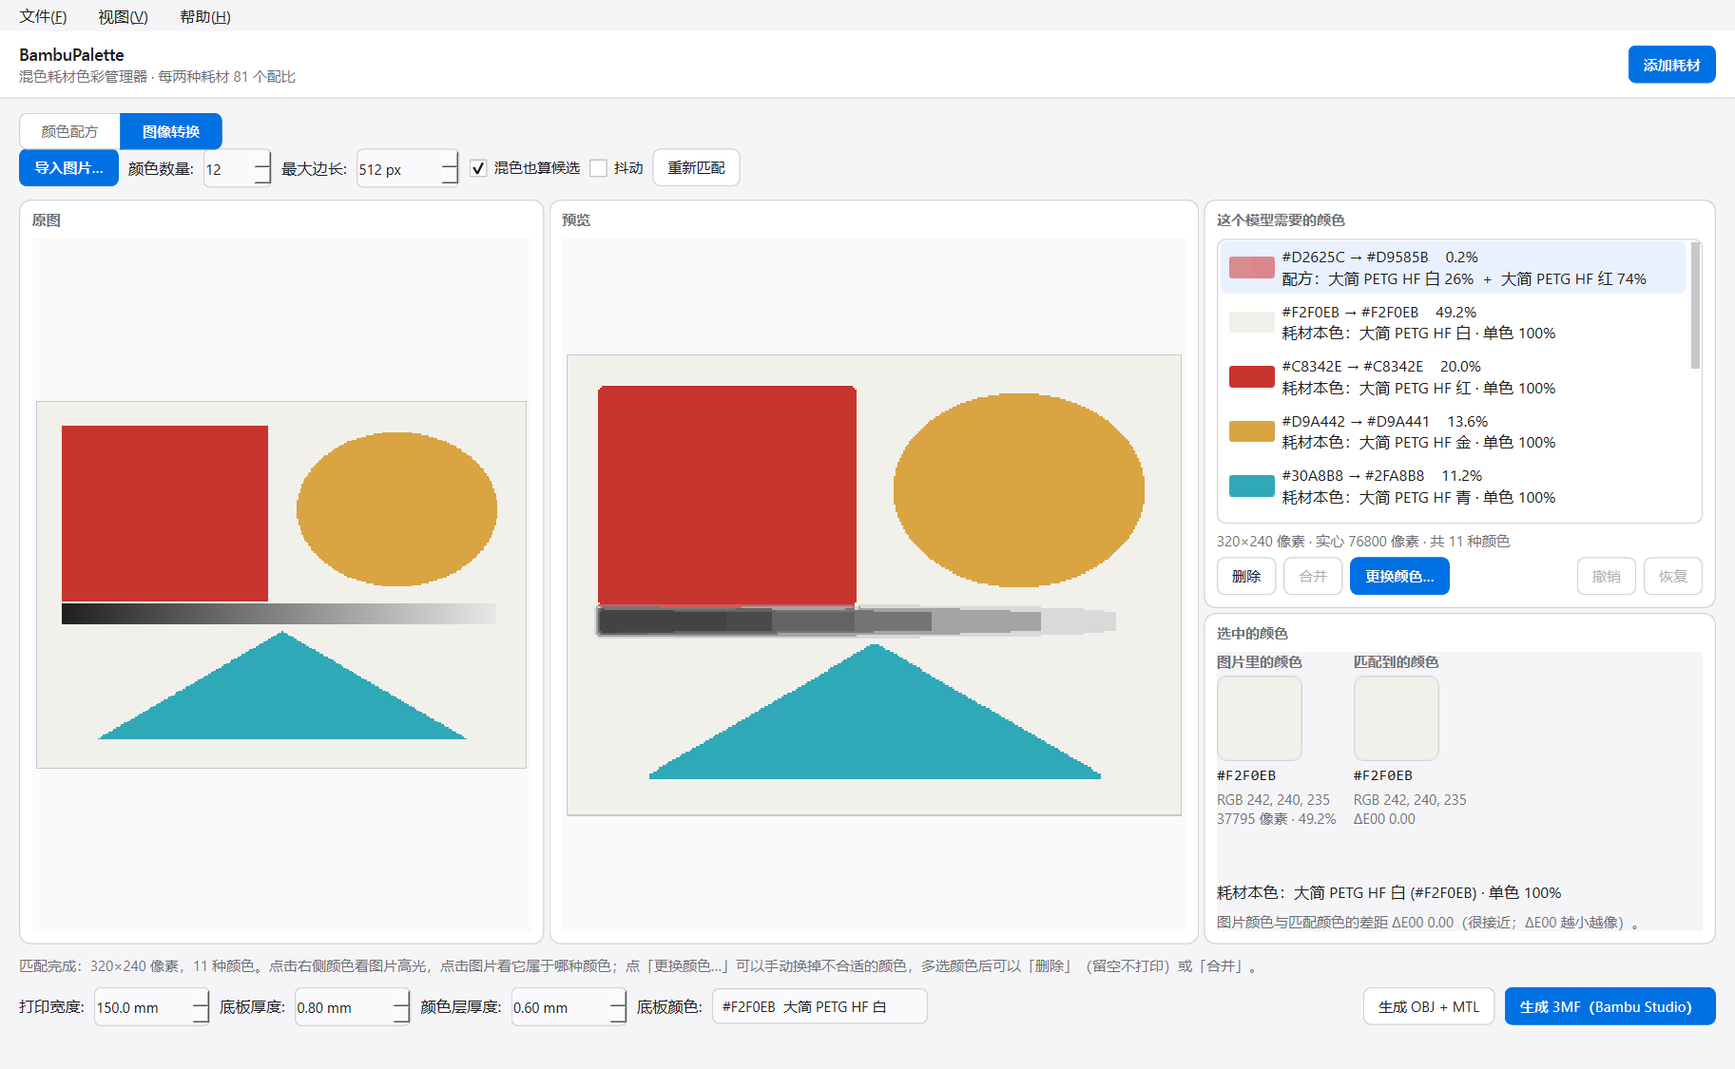
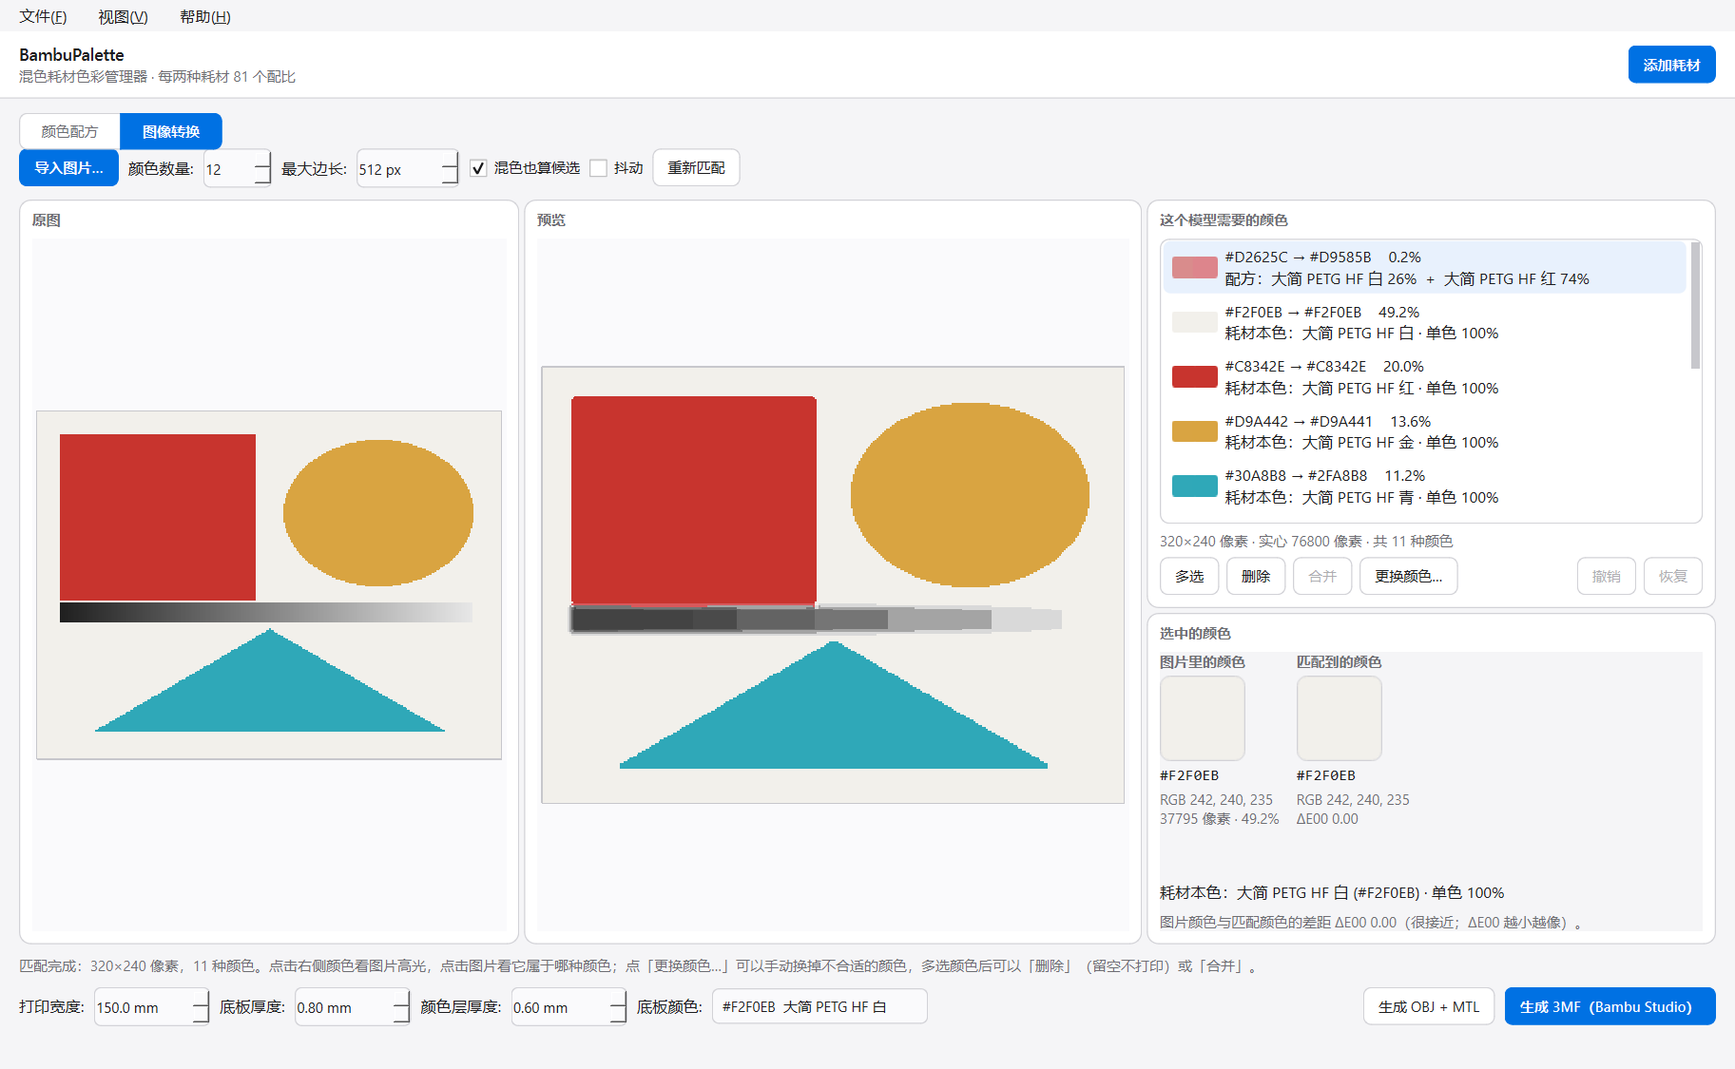
v1.6.3：exe 带上版本号、更换颜色不再是蓝底、删除前面加「多选」开关

diff --git a/tools/smoke_app.py b/tools/smoke_app.py
@@ -621,6 +621,24 @@ def main() -> int:
         "the target colour tooltip says 颜色配方 too",
     )
 
+    # The version has to be readable without opening 关于: it is the same string
+    # the exe's file properties carry (build/BambuPalette.spec parses app/__init__.py).
+    from app import __version__ as _version
+
+    about = triple_window._about_text()
+    check(
+        _version in about,
+        f"关于 names the running version {_version!r}",
+    )
+    check(
+        about.startswith("BambuPalette"),
+        "关于 still opens with the product name",
+    )
+    check(
+        "BambuPalette.exe 的文件属性里也写着同一个版本号。" in about,
+        "关于 points at the exe's file properties",
+    )
+
     # A spool's own colour must hide EVERY parent row, not just the second one:
     # row 3 kept the 「耗材丝3 … 12%」 text from the previous three-colour recipe,
     # so a raw spool looked like it was mixed from two unrelated spools.
@@ -1525,6 +1543,10 @@ def main() -> int:
             check(page._undo_button.isEnabled(), "a replacement can be undone with 撤销")
             check(page._replace_button.isEnabled(), "更换颜色 is live right next to 删除")
             check(
+                page._replace_button.property("accent") in (None, "false"),
+                "更换颜色 is a plain button like 删除 / 合并, not a blue one",
+            )
+            check(
                 "手动更换" in page._status.text(),
                 f"the status line reports the manual replacement: {page._status.text()}",
             )
@@ -1561,6 +1583,67 @@ def main() -> int:
             doomed_pixels = int(placed[doomed])
             page._list.select([doomed])
             check(page._delete_button.isEnabled(), "删除 lights up once a colour is picked")
+
+            # 「多选」: on, two plain clicks keep BOTH colours (the whole point is
+            # not having to know about Ctrl).  Off, one click replaces the other.
+            from PySide6.QtWidgets import QAbstractItemView as _QAbstractItemView
+
+            check(page._multi_button.isCheckable(), "多选 is a toggle")
+            check(not page._multi_button.isChecked(), "多选 starts off")
+            check(
+                page._list._list.selectionMode()
+                == _QAbstractItemView.SelectionMode.ExtendedSelection,
+                "off means the familiar Ctrl+click list",
+            )
+            page._multi_button.setChecked(True)
+            app.processEvents()
+            check(
+                page._list._list.selectionMode()
+                == _QAbstractItemView.SelectionMode.MultiSelection,
+                "多选 switches the list to plain-click multi-selection",
+            )
+            rows = [page._list._list.item(i) for i in range(page._list._list.count())]
+            rows[0].setSelected(True)
+            rows[1].setSelected(True)
+            app.processEvents()
+            check(
+                len(page._list.selected_indices()) == 2,
+                f"two plain clicks select two colours: {page._list.selected_indices()}",
+            )
+            check(page._merge_button.isEnabled(), "合并 lights up from a plain multi-selection")
+            page._multi_button.setChecked(False)
+            app.processEvents()
+            check(
+                len(page._list.selected_indices()) == 2,
+                "the selection survives turning 多选 back off",
+            )
+            check(
+                page._list._list.selectionMode()
+                == _QAbstractItemView.SelectionMode.ExtendedSelection,
+                "turning 多选 off restores Ctrl+click behaviour",
+            )
+            page._list.select([doomed])
+
+            # The row reads in the order the work happens: how to change the
+            # selection, then what to do with it, then how to take it back.
+            from PySide6.QtWidgets import QHBoxLayout as _QHBoxLayout
+            from PySide6.QtWidgets import QPushButton as _QPushButton
+
+            edit_row = next(
+                layout
+                for layout in page.findChildren(_QHBoxLayout)
+                if layout.indexOf(page._multi_button) >= 0
+            )
+            labels = [
+                edit_row.itemAt(position).widget().text()
+                for position in range(edit_row.count())
+                if isinstance(edit_row.itemAt(position).widget(), _QPushButton)
+            ]
+            check(
+                labels == ["多选", "删除", "合并", "更换颜色…", "撤销", "恢复"],
+                f"the edit row reads 多选 删除 合并 更换颜色… 撤销 恢复, got {labels}",
+            )
+
             page._on_delete_colours()
             app.processEvents()
             check(

diff --git a/app/ui/picture_page.py b/app/ui/picture_page.py
@@ -366,6 +366,27 @@ class ColourList(QWidget):
             if item is not None:
                 item.setSelected(int(item.data(Qt.ItemDataRole.UserRole)) in wanted)
 
+    def setMultiSelect(self, on: bool) -> None:
+        """Make a plain click ADD to the selection instead of replacing it.
+
+        Ctrl+click did this already, but a modifier nobody was told about is not
+        a feature — the page puts a 「多选」 toggle in front of the buttons
+        instead.  The mode is changed on the widget (we never fake a selection),
+        so the same ``itemSelectionChanged`` path keeps 删除 / 合并 in sync.
+        """
+        mode = (
+            QAbstractItemView.SelectionMode.MultiSelection
+            if on
+            else QAbstractItemView.SelectionMode.ExtendedSelection
+        )
+        if self._list.selectionMode() == mode:
+            return
+        keep = self.selected_indices()
+        self._list.setSelectionMode(mode)
+        # Qt is free to drop the selection while the mode changes; put it back
+        # through the widget so the buttons still agree with what is highlighted.
+        self.select(keep)
+
     def _refresh(self) -> None:
         result = self._result
         # Everything that touches the view happens while suppressed: selecting
@@ -649,11 +670,22 @@ class PicturePage(QWidget):
         self._merge_button.clicked.connect(self._on_merge_colours)
 
         self._replace_button = QPushButton("更换颜色…")
-        self._replace_button.setProperty("accent", "true")
+        # Deliberately NOT accented, exactly like 删除 / 合并 / 撤销 / 恢复 next to
+        # it: these five are all plain actions on the selection, and the only
+        # blue button on this page is 生成 3MF, which is the one that finishes
+        # the job.  A blue 更换颜色 read as "this is the important one".
         self._replace_button.setToolTip(
             "从「全部颜色」里另选一个颜色替换选中的这个色块（撤销可以退回来）"
         )
         self._replace_button.clicked.connect(self._on_replace)
+
+        self._multi_button = QPushButton("多选")
+        self._multi_button.setCheckable(True)
+        self._multi_button.setToolTip(
+            "打开后，单击就是把颜色加进选择、再单击取消这一种，不用按住 Ctrl；"
+            "关掉就回到「一次只选一种」。打开时按钮会变成蓝色。"
+        )
+        self._multi_button.toggled.connect(self._on_multi_toggled)
 
         self._undo_button = QPushButton("撤销")
         self._undo_button.setToolTip("撤销上一步：删除、合并或更换颜色（Ctrl+Z）")
@@ -665,6 +697,7 @@ class PicturePage(QWidget):
 
         actions = QHBoxLayout()
         actions.setSpacing(6)
+        actions.addWidget(self._multi_button)
         actions.addWidget(self._delete_button)
         actions.addWidget(self._merge_button)
         actions.addWidget(self._replace_button)
@@ -1060,6 +1093,15 @@ class PicturePage(QWidget):
             self._detail.clear()
         self._update_actions()
         self._announce_edits()
+
+    def _on_multi_toggled(self, on: bool) -> None:
+        """「多选」：click to add a colour, click again to drop it — no Ctrl."""
+        self._list.setMultiSelect(on)
+        # Accent while it is ON, so "clicks add up" is never a guess.
+        self._multi_button.setProperty("accent", "true" if on else "false")
+        style = self._multi_button.style()
+        style.unpolish(self._multi_button)
+        style.polish(self._multi_button)
 
     def _update_actions(self) -> None:
         """ 删除 needs one colour, 合并 needs two, and the history drives the rest."""

diff --git a/app/selftest.py b/app/selftest.py
@@ -461,6 +461,10 @@ def run_selftest(*, report_path: Path | None = None) -> int:
         check(page._detail.can_restore(), "the panel knows the colour was hand-picked")
         check(page._undo_button.isEnabled(), "a replacement can be undone with 撤销")
         check(page._replace_button.isEnabled(), "a selected colour can be swapped")
+        check(
+            page._replace_button.property("accent") in (None, "false"),
+            "更换颜色 is a plain button like 删除 / 合并, not a blue one",
+        )
         page._undo()
         app.processEvents()
         check(
@@ -478,6 +482,26 @@ def run_selftest(*, report_path: Path | None = None) -> int:
         before_colours = len(page.result.palette)
         doomed = int(np.bincount(page.result.indices[page.result.indices >= 0].ravel()).argmax())
         doomed_count = int((page.result.indices == doomed).sum())
+        page._list.select([doomed])
+        check(page._multi_button.isCheckable(), "多选 is a toggle")
+        check(not page._multi_button.isChecked(), "多选 starts off")
+        page._multi_button.setChecked(True)
+        app.processEvents()
+        rows = [page._list._list.item(i) for i in range(page._list._list.count())]
+        rows[0].setSelected(True)
+        rows[1].setSelected(True)
+        app.processEvents()
+        check(
+            len(page._list.selected_indices()) == 2,
+            f"多选 lets two plain clicks keep two colours: {page._list.selected_indices()}",
+        )
+        check(page._merge_button.isEnabled(), "合并 lights up from a plain multi-selection")
+        page._multi_button.setChecked(False)
+        app.processEvents()
+        check(
+            len(page._list.selected_indices()) == 2,
+            "the selection survives turning 多选 back off",
+        )
         page._list.select([doomed])
         page._on_delete_colours()
         app.processEvents()
@@ -607,6 +631,19 @@ def run_selftest(*, report_path: Path | None = None) -> int:
         "颜色配方" in window._target_color.toolTip(),
         "the target colour tooltip says 颜色配方 too",
     )
+
+    # The version must be readable without opening 关于, and it is the same string
+    # build/BambuPalette.spec parses out of app/__init__.py for the exe resource.
+    from . import __version__ as _version
+
+    about = window._about_text()
+    check(_version in about, f"关于 names the running version {_version!r}")
+    check(about.startswith("BambuPalette"), "关于 still opens with the product name")
+    check(
+        "BambuPalette.exe 的文件属性里也写着同一个版本号。" in about,
+        "关于 points at the exe's file properties",
+    )
+    check(window._find_button.isEnabled(), "找最接近的颜色 is clickable before a target is picked")
 
     # A spool's own colour has exactly ONE parent — itself.  Row 3 used to keep
     # showing the previous three-colour recipe's 「耗材丝3 … 12%」, so a raw spool

diff --git a/app/ui/main_window.py b/app/ui/main_window.py
@@ -37,6 +37,7 @@ from PySide6.QtWidgets import (
     QWidget,
 )
 
+from .. import __version__
 from ..core import paths, settings
 from ..core.engines import DEFAULT_ENGINE, ENGINE_CHOICES, get_engine
 from ..core.library import (
@@ -1235,15 +1236,20 @@ class MainWindow(QMainWindow):
                 f"最接近 {target} 的颜色就是耗材本色 {best.color_hex}（色差 ΔE00 = {distance:.2f}）"
             )
 
-    def _on_about(self) -> None:
+    def _about_text(self) -> str:
+        """The 关于 text, version line included.
+
+        Split out of ``_on_about`` so the automatic checks can read it without
+        a modal dialog: the version shown here and the one in the exe's file
+        properties both come from ``app.__version__``.
+        """
         try:
             location = paths.library_path()
         except OSError as exc:
             location = f"（不可用：{exc}）"
-        QMessageBox.information(
-            self,
-            "关于与算法来源",
-            "BambuPalette（混色耗材色彩管理器）\n\n"
+        return (
+            f"BambuPalette（混色耗材色彩管理器）  版本 {__version__}\n"
+            f"BambuPalette.exe 的文件属性里也写着同一个版本号。\n\n"
             "「Bambu 混色预览」（默认）复刻自 Bambu Studio 2.8.2\n"
             "（v02.08.02.61）src/slic3r/GUI/MixedFilamentDialog.cpp 中的\n"
             "blend_colors()/blend_n_colors()，它们调用 libslic3r 的\n"
@@ -1260,5 +1266,8 @@ class MainWindow(QMainWindow):
             "Color Consortium，profile ID 5436fbfce5f7414dc520bb6e5d9c1516，\n"
             "SHA-256 8291983e…2e4）估计，实现参考\n"
             "ratdoux/OrcaSlicer-FullSpectrum（AGPL-3.0）。\n\n"
-            "耗材档案保存在：" + str(location),
+            "耗材档案保存在：" + str(location)
         )
+
+    def _on_about(self) -> None:
+        QMessageBox.information(self, "关于与算法来源", self._about_text())

diff --git a/app/__init__.py b/app/__init__.py
@@ -2,6 +2,6 @@
 
 from __future__ import annotations
 
-__version__ = "1.6.2"
+__version__ = "1.6.3"
 APP_NAME = "BambuPalette"
 APP_NAME_ZH = "混色耗材色彩管理器"

diff --git a/docs/算法说明.md b/docs/算法说明.md
@@ -1448,6 +1448,77 @@ def show_main_window(window) -> None:
 `show_main_window()`，然后断言 `starter.isMaximized()`。
 
 
+## 28. 版本号只写一次：exe 文件属性与「关于」共用同一个来源
+
+用户拿到的是 `BambuPalette-1.6.3-win64.zip`，解压开是一个 `BambuPalette.exe` 加
+一堆 `_internal`。装了两三个版本以后，光看文件名分不出到底跑的是哪一版——所以
+exe 的文件属性里必须写着版本号。
+
+写法是在 `build/BambuPalette.spec` 里**从源码读版本**，而不是再手写一个常量：
+
+```python
+def app_version() -> tuple[str, tuple[int, int, int, int]]:
+    text = (Path("app") / "__init__.py").read_text(encoding="utf-8")
+    match = re.search(r'^__version__\s*=\s*"([^"]+)"', text, re.MULTILINE)
+    if match is None:
+        raise RuntimeError("app/__init__.py has no __version__")
+    ...
+
+VERSION_TEXT, VERSION_PARTS = app_version()
+VERSION_INFO = VSVersionInfo(ffi=FixedFileInfo(filevers=VERSION_PARTS, ...), ...)
+EXE(..., version=VERSION_INFO, ...)
+```
+
+三件事值得记下来：
+
+1. **`EXE(version=...)` 可以直接收一个 `VSVersionInfo` 对象**。PyInstaller 6.22.3 的
+   `__init__` 里就是 `if isinstance(self.versrsrc, versioninfo.VSVersionInfo)`，
+   网上大量教程还在先生成一个临时 `.txt` 再传路径，那是老版本的写法。
+2. **版本号必须在构建时就解析出来，而不是在运行时**。运行时读源码在冻结以后是
+   读不到的；这里是读构建机上的源码，两边永远同一个号，不会出现「exe 属性写着
+   1.6.2、程序里显示 1.6.3」这种对不上的情况——这也是为什么解析失败时直接
+   `raise`，宁可构建崩掉也不发一个没有版本号的包。
+3. 程序里那份文字同样来自 `app.__version__`。`MainWindow._about_text()` 的第一行是
+   `f"...版本 {__version__}"`，`_on_about()` 只负责把它塞进 `QMessageBox`。**把
+   文本抽成一个返回字符串的方法**，是为了让自动检查能直接断言「关于里写着当前
+   版本」而不用去点开一个模态对话框。
+
+
+## 29. 「多选」按钮：不改列表的选择模型，只是换个 `SelectionMode`
+
+第二页要选中两三种颜色才能点「合并」。原来只能用 `Ctrl + 单击`，而 `Ctrl + 单击`
+是**知道 Qt 才想得起来**的操作——用户不会去猜。
+
+所以在「删除」前面加了一个**开关按钮**「多选」。它做的事只有一件：
+
+```python
+def setMultiSelect(self, on: bool) -> None:
+    mode = (QAbstractItemView.SelectionMode.MultiSelection if on
+            else QAbstractItemView.SelectionMode.ExtendedSelection)
+    if self._list.selectionMode() == mode:
+        return
+    keep = self.selected_indices()
+    self._list.setSelectionMode(mode)
+    self.select(keep)          # 换模式时 Qt 可能把选择清掉
+```
+
+三个细节：
+
+- **`MultiSelection` 和 `ExtendedSelection` 的区别只有「要不要按 Ctrl」**：
+  `ExtendedSelection` 里单击是「替换选择」、`Ctrl + 单击` 才是「加一个」；
+  `MultiSelection` 里单击就是「切换这一个」。两种模式下 `selected_indices()`、
+  `itemSelectionChanged`、`_update_actions()` 全都不用改，因为它们本来就是从
+  `item.isSelected()` 读的（见 §27 里那个死循环的教训）——**能不加状态就不加状态**。
+- **换模式前后要把选择存下来再放回去**。`setSelectionMode()` 之后 Qt 有权把当前
+  选择清空（视内部 selection model 的实现而定），不存一次就会出现「一开多选，
+  刚选好的颜色没了」。
+- **按钮自己变蓝是唯一的「开着」提示**。开关状态落在按钮上，和 `_update_actions()`
+  驱动的可用性是两套东西：`多选` 永远是可用的，`删除 / 更换颜色` 要选了才亮，
+  `合并` 要选两种以上才亮。整页只有右下角「生成 3MF」是常驻蓝色——它才是
+  「干完了」的那个动作；把「更换颜色…」也涂成蓝色（1.6.2 及以前）会读成
+  「这个才是重点」，而它其实只是这一排普通动作里的一个。
+
+
 
 
 

diff --git a/README.md b/README.md
@@ -8,6 +8,8 @@
 
 窗口**打开就是最大化**：这张颜色表越宽越好，默认开成一个小窗口只会让人每次启动都先手动放大一次。（所以程序不记忆窗口大小，永远满屏打开。）
 
+想知道自己装的是哪一版：右键 `BambuPalette.exe` →「属性」→「详细信息」，里面的**文件版本 / 产品版本**就是版本号（构建时从 `app/__init__.py` 读出来写进 exe，不会跟程序里显示的版本对不上）；程序里的「帮助 → 关于与算法来源」第一行也写着同一个号。
+
 > **给脚本和二次开发的提示**：设置环境变量 `BAMBU_PALETTE_DATA_DIR` 可以把数据目录指向别处。
 > 任何以程序方式打开主窗口的脚本都**应该**设它，否则脚本构造窗口时会把演示数据写进用户真正的耗材库。
 > 每次保存还会在旁边留一份 `filament-library.json.bak`（上一版），用来兜住这类意外。
@@ -73,10 +75,11 @@
    - 显示两者的 **CIEDE2000 色差 ΔE00**，并给出「很接近 / 接近 / 偏差较大」的判断；
    - 「匹配到的颜色」下面写着它的**配方**（哪两种耗材、各多少百分比），单色耗材则标明「耗材本色」；
    - 觉得不合适？点「**更换颜色…**」从「全部颜色」里手动挑一个（下面第 5 条）；
-5. 清单下面一排**编辑按钮**，改的是「这一块到底打不打、打成什么颜色」，不影响原图——从左到右就是**删除、合并、更换颜色…、撤销、恢复**：
-   - 「**删除**」——选中一种或几种颜色（按住 Ctrl 点可以多选），删掉的地方**留空、变成透明**：那块既**不打印**，底下也**没有底板**，模型上就是一个洞。想要衣服挖空、眼睛留白这类效果就用它；
+5. 清单下面一排**编辑按钮**，改的是「这一块到底打不打、打成什么颜色」，不影响原图——从左到右就是**多选、删除、合并、更换颜色…、撤销、恢复**：
+   - 「**多选**」——一个开关。打开以后**单击就是把这一种颜色加进选择、再单击取消这一种**，不用按住 Ctrl，按钮会变蓝提醒你正开着；关掉就回到「一次只选一种」。选中两种以上才会亮起的「合并」就需要它（当然按住 Ctrl 点也一样）；
+   - 「**删除**」——选中一种或几种颜色，删掉的地方**留空、变成透明**：那块既**不打印**，底下也**没有底板**，模型上就是一个洞。想要衣服挖空、眼睛留白这类效果就用它；
    - 「**合并**」——选中**两种以上**颜色，点合并会弹出窗口，从这几种里挑一种作为合并后的整体颜色，选中的区域就都用它打印；
-   - 「**更换颜色…**」——给当前选中的这一种颜色换一个：从「全部颜色」里挑（下面第 7 条）；
+   - 「**更换颜色…**」——给当前选中的这一种颜色换一个：从「全部颜色」里挑（下面第 7 条）。它和旁边的按钮长得一样，**不带蓝底**——这一排都是对选中结果做的动作，整页只有右下角那个「生成 3MF」是蓝色的，因为那才是「干完了」；
    - 「**撤销 / 恢复**」——上一步删了、合并了或者换了颜色，按 **Ctrl+Z** 退回去，按 **Ctrl+Y** 再做回来（也可以直接点按钮）。最多记 64 步；
    - 只有选了颜色，**删除 / 更换颜色**才会亮；**合并**要选两种以上才亮——按钮灰着就说明还没选够；
    - 没有「恢复自动匹配」这个按钮了：**撤销本来就能把手工换的颜色退回去**（换颜色也是一步编辑，和删除、合并一样进历史），多一个换名字的回退按钮只是多一个要记的东西。撤销回去以后，那一行的色差说明会自己恢复成「图片颜色与匹配颜色的差距 ΔE00 …」；
